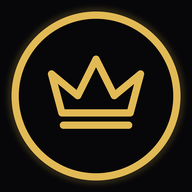
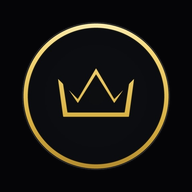
feat(splash): integrate crown emblem splash across native and web with smooth 2s loading transition to login

Changed region(s): [[0.0312, 0.0312, 0.9688, 0.9688], [0.25, 0.2812, 0.75, 0.6875]]

diff --git a/components/ui/SplashScreen.tsx b/components/ui/SplashScreen.tsx
@@ -2,12 +2,10 @@
 
 import React, { useState, useEffect } from 'react';
 import { motion, AnimatePresence } from 'framer-motion';
-import { CrownLogo } from './CrownLogo';
 
 export const SplashScreen: React.FC = () => {
   const [isVisible, setIsVisible] = useState(true);
   const [isDismissed, setIsDismissed] = useState(false);
-  const [progress, setProgress] = useState(0);
 
   useEffect(() => {
     // Check if splash was already shown in this app session
@@ -23,20 +21,10 @@ export const SplashScreen: React.FC = () => {
       }
     }
 
-    // Smooth progression from 0% to 100% over 1850ms
-    const startTime = Date.now();
-    const duration = 1850;
+    // Fast ~2 seconds loading duration from navigation start
+    const elapsedSinceNav = typeof performance !== 'undefined' ? performance.now() : 0;
+    const remainingTime = Math.max(700, Math.min(2000, 2000 - elapsedSinceNav));
 
-    const interval = setInterval(() => {
-      const elapsed = Date.now() - startTime;
-      const pct = Math.min(100, Math.floor((elapsed / duration) * 100));
-      setProgress(pct);
-      if (elapsed >= duration) {
-        clearInterval(interval);
-      }
-    }, 40);
-
-    // Fade out after exactly 2 seconds
     const timer = setTimeout(() => {
       setIsVisible(false);
       if (typeof window !== 'undefined') {
@@ -44,10 +32,9 @@ export const SplashScreen: React.FC = () => {
           sessionStorage.setItem('kmc_splash_shown', 'true');
         } catch (e) {}
       }
-    }, 2000);
+    }, remainingTime);
 
     return () => {
-      clearInterval(interval);
       clearTimeout(timer);
     };
   }, []);
@@ -63,58 +50,27 @@ export const SplashScreen: React.FC = () => {
           key="kmc-luxury-splash"
           initial={{ opacity: 1 }}
           exit={{ opacity: 0 }}
-          transition={{ duration: 0.45, ease: [0.16, 1, 0.3, 1] }}
-          className="fixed inset-0 z-[99999] bg-[#050507] flex flex-col items-center justify-center select-none overflow-hidden pointer-events-auto"
+          transition={{ duration: 0.35, ease: [0.22, 1, 0.36, 1] }}
+          className="fixed inset-0 z-[99999] bg-[#050507] flex items-center justify-center select-none overflow-hidden pointer-events-auto"
           style={{ willChange: 'opacity' }}
         >
-          {/* Subtle Deep Ambient Vignette */}
-          <div className="absolute inset-0 bg-radial from-transparent via-[#050507]/70 to-[#020203] pointer-events-none" />
-
-          {/* Central Deep Crown Container */}
+          {/* Central Luxury Crown Emblem — Matches the exact launch screenshot */}
           <motion.div
-            initial={{ scale: 0.95, opacity: 0.9 }}
+            initial={{ scale: 0.96, opacity: 0.95 }}
             animate={{ scale: 1, opacity: 1 }}
-            transition={{ duration: 0.8, ease: 'easeOut' }}
-            className="flex flex-col items-center relative z-10 px-6 text-center max-w-sm"
+            transition={{ duration: 0.5, ease: 'easeOut' }}
+            className="flex items-center justify-center p-4 relative z-10"
           >
-            {/* Deep Royal Crown Emblem */}
-            <div className="w-24 h-24 sm:w-28 sm:h-28 mb-4 relative">
-              <CrownLogo className="w-full h-full" showRing={true} variant="deep" />
-              {/* Subtle pulsing aura ring */}
-              <div className="absolute inset-0 rounded-full border border-[#C69E46]/20 animate-ping opacity-25 pointer-events-none" />
-            </div>
-
-            {/* Deep Gold Typography */}
-            <h1 className="font-serif text-2xl sm:text-3xl font-bold tracking-[0.25em] text-[#E5C378] drop-shadow-[0_2px_10px_rgba(0,0,0,0.9)]">
-              KISSMYCHEEK
-            </h1>
-            
-            <span className="text-[9px] uppercase tracking-[0.35em] text-[#C69E46]/80 font-medium mt-1.5">
-              EXCLUSIVE DATING & SOCIAL CLUB
-            </span>
-
-            {/* Loading Indicator with Animated 2-second Progress Bar */}
-            <div className="mt-8 flex flex-col items-center gap-2">
-              <div className="flex items-center gap-1.5 text-xs tracking-widest text-[#C69E46]/90 uppercase font-medium">
-                <span>Loading</span>
-                <span className="inline-flex gap-0.5">
-                  <span className="animate-pulse">.</span>
-                  <span className="animate-pulse delay-150">.</span>
-                  <span className="animate-pulse delay-300">.</span>
-                </span>
-              </div>
-              
-              {/* Luxury Gold Progress Bar (0% to 100%) */}
-              <div className="w-32 h-1 bg-[#1A1815] rounded-full overflow-hidden mt-1 p-0.5 border border-[#C69E46]/20">
-                <div 
-                  className="h-full rounded-full bg-gradient-to-r from-[#C69E46] via-[#E5C378] to-[#F9E99B] transition-all duration-75 ease-out shadow-[0_0_8px_rgba(229,195,120,0.5)]"
-                  style={{ width: `${progress}%` }}
-                />
-              </div>
-            </div>
+            <img
+              src="/crown-emblem.png"
+              alt="Kiss My Cheek"
+              className="w-36 h-36 sm:w-44 sm:h-44 object-contain pointer-events-none drop-shadow-[0_0_35px_rgba(212,175,55,0.3)]"
+              loading="eager"
+            />
           </motion.div>
         </motion.div>
       )}
     </AnimatePresence>
   );
 };
+

diff --git a/components/ui/CrownLogo.tsx b/components/ui/CrownLogo.tsx
@@ -8,71 +8,15 @@ interface CrownLogoProps {
 
 export const CrownLogo: React.FC<CrownLogoProps> = ({ 
   className = "w-10 h-10", 
-  showRing = true,
-  variant = 'deep'
 }) => {
   return (
     <div className={`relative flex items-center justify-center select-none ${className}`}>
-      <svg
-        viewBox="0 0 100 100"
-        fill="none"
-        xmlns="http://www.w3.org/2000/svg"
-        className="w-full h-full drop-shadow-[0_4px_12px_rgba(0,0,0,0.8)]"
-      >
-        <defs>
-          {/* Deep Royal Metallic Gold Gradient */}
-          <linearGradient id="kmcDeepCrownGradient" x1="15%" y1="10%" x2="85%" y2="90%">
-            <stop offset="0%" stopColor="#E5C378" />
-            <stop offset="35%" stopColor="#C69E46" />
-            <stop offset="70%" stopColor="#8E6A21" />
-            <stop offset="100%" stopColor="#5D4310" />
-          </linearGradient>
-
-          {/* Subtle Deep Shading */}
-          <linearGradient id="kmcCrownFill" x1="50%" y1="20%" x2="50%" y2="80%">
-            <stop offset="0%" stopColor="#D4AF37" stopOpacity="0.12" />
-            <stop offset="100%" stopColor="#5D4310" stopOpacity="0.02" />
-          </linearGradient>
-        </defs>
-
-        {/* Outer Circular Ring */}
-        {showRing && (
-          <circle
-            cx="50"
-            cy="50"
-            r="44"
-            stroke="url(#kmcDeepCrownGradient)"
-            strokeWidth="3.2"
-            className="transition-all duration-300"
-          />
-        )}
-
-        {/* Crown Body with subtle rich fill */}
-        <path
-          d="M32.2 58.8 L26.8 38.5 L40.5 49.8 L50 30.8 L59.5 49.8 L73.2 38.5 L67.8 58.8 Z"
-          fill="url(#kmcCrownFill)"
-          stroke="url(#kmcDeepCrownGradient)"
-          strokeWidth="3.6"
-          strokeLinecap="round"
-          strokeLinejoin="round"
-        />
-
-        {/* Crown Base Jewels / Dots */}
-        <circle cx="26.8" cy="38.5" r="1.5" fill="#E5C378" />
-        <circle cx="50" cy="30.8" r="1.8" fill="#E5C378" />
-        <circle cx="73.2" cy="38.5" r="1.5" fill="#E5C378" />
-
-        {/* Underline Bar */}
-        <line
-          x1="32.5"
-          y1="65.2"
-          x2="67.5"
-          y2="65.2"
-          stroke="url(#kmcDeepCrownGradient)"
-          strokeWidth="3.6"
-          strokeLinecap="round"
-        />
-      </svg>
+      <img
+        src="/crown-emblem.png"
+        alt="Kiss My Cheek"
+        className="w-full h-full object-contain pointer-events-none drop-shadow-[0_2px_10px_rgba(212,175,55,0.3)]"
+        loading="eager"
+      />
     </div>
   );
 };

diff --git a/app/login/page.tsx b/app/login/page.tsx
@@ -353,10 +353,10 @@ export default function LoginPage() {
   };
 
   return (
-    <div className="min-h-screen bg-[#020204] flex flex-col items-center justify-center px-4 py-6 sm:py-10 pt-[max(1.5rem,env(safe-area-inset-top,1.5rem))] pb-[max(1.5rem,env(safe-area-inset-bottom,1.5rem))] relative overflow-y-auto text-[#F4F4F6]">
+    <div className="min-h-screen bg-[#050507] flex flex-col items-center justify-center px-4 py-6 sm:py-10 pt-[max(1.5rem,env(safe-area-inset-top,1.5rem))] pb-[max(1.5rem,env(safe-area-inset-bottom,1.5rem))] relative overflow-y-auto text-[#F4F4F6]">
       
       {/* Thick Dark Luxury Vignette Lighting */}
-      <div className="absolute inset-0 bg-gradient-to-b from-[#010102] via-[#040407] to-[#010102] pointer-events-none" />
+      <div className="absolute inset-0 bg-gradient-to-b from-[#050507] via-[#050507] to-[#020203] pointer-events-none" />
       <div className="absolute w-[600px] h-[600px] bg-gradient-to-tr from-[#D4AF37]/8 via-[#9A7B1C]/5 to-transparent rounded-full blur-[180px] pointer-events-none top-1/2 left-1/2 -translate-x-1/2 -translate-y-1/2 opacity-50" />
 
       {/* Brand Header */}

diff --git a/app/layout.tsx b/app/layout.tsx
@@ -6,7 +6,7 @@ export const viewport: Viewport = {
   initialScale: 1,
   maximumScale: 1,
   viewportFit: "cover",
-  themeColor: "#070709",
+  themeColor: "#050507",
 };
 
 export const metadata: Metadata = {
@@ -35,7 +35,10 @@ export default function RootLayout({
 }) {
   return (
     <html lang="en" className="dark scroll-smooth h-full" data-scroll-behavior="smooth" suppressHydrationWarning>
-      <body className="min-h-screen bg-[#070709] text-[#F4F4F6] font-sans antialiased selection:bg-[#D4AF37] selection:text-black flex flex-col" suppressHydrationWarning>
+      <head>
+        <link rel="preload" as="image" href="/crown-emblem.png" />
+      </head>
+      <body className="min-h-screen bg-[#050507] text-[#F4F4F6] font-sans antialiased selection:bg-[#D4AF37] selection:text-black flex flex-col" suppressHydrationWarning>
         <AppBackButtonHandler />
         <InactivityManager />
         <CallSessionManager />

diff --git a/app/globals.css b/app/globals.css
@@ -2,7 +2,7 @@
 @import "tailwindcss";
 
 :root {
-  --background: #070709;
+  --background: #050507;
   --foreground: #f4f4f6;
   --card: rgba(18, 18, 24, 0.7);
   --card-border: rgba(212, 175, 55, 0.2);

diff --git a/android/app/src/main/java/com/kissmycheek/app/MainActivity.java b/android/app/src/main/java/com/kissmycheek/app/MainActivity.java
@@ -22,10 +22,25 @@ public class MainActivity extends BridgeActivity {
 
         super.onCreate(savedInstanceState);
 
-        // Allow web view time to load its DOM while the crown emblem remains seamlessly visible
+        // Seamless transition: Keep native splash until the WebView commits its visible frame
+        if (getBridge() != null) {
+            getBridge().addWebViewListener(new com.getcapacitor.WebViewListener() {
+                @Override
+                public void onPageCommitVisible(android.webkit.WebView view, String url) {
+                    runOnUiThread(() -> isAppReady = true);
+                }
+
+                @Override
+                public void onPageLoaded(android.webkit.WebView view) {
+                    runOnUiThread(() -> isAppReady = true);
+                }
+            });
+        }
+
+        // Fallback timer ensures splash never hangs if network is delayed
         new android.os.Handler(android.os.Looper.getMainLooper()).postDelayed(() -> {
             isAppReady = true;
-        }, 1200);
+        }, 2200);
 
         checkAudioVideoPermissions();
         setupWebViewMediaSettings();
